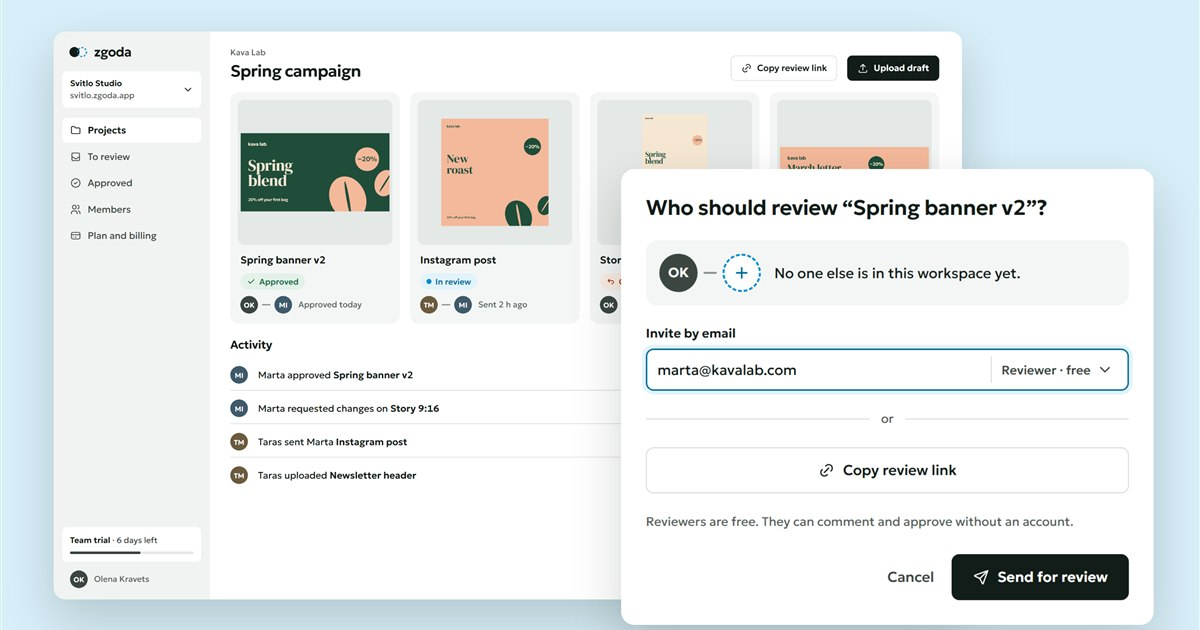
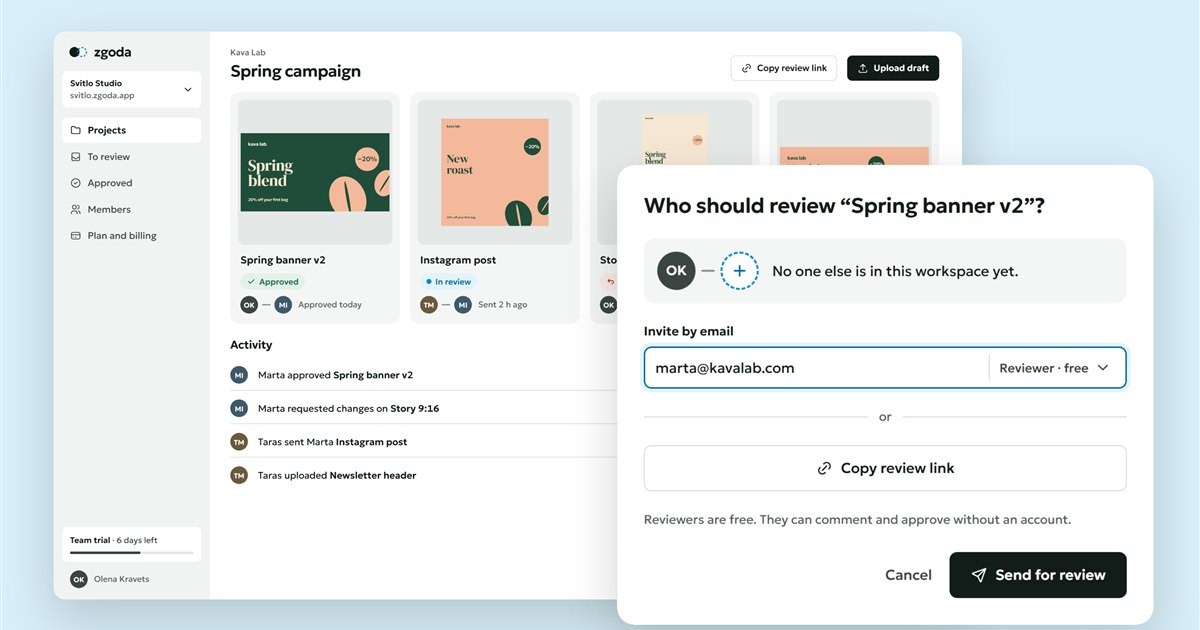
Zgoda: clean dialog corners in the case images, keep numbers with their words
The cropped invite dialog (image 08 and the hero inset) had dimmed
scrim showing in its corners: the frame's radius didn't match the
dialog's. The crop now uses the dialog's measured bounds and radius.
Numbers and the words they count are joined with a no-break space.

diff --git a/zgoda-team-onboarding-billing.html b/zgoda-team-onboarding-billing.html
@@ -43,37 +43,37 @@
     <h1>Zgoda — a team’s first two weeks, from sign-up to a second person</h1>
     <dl class="case-facts"><div><dt>Role</dt><dd>UI/UX &amp; Product Designer</dd></div><div><dt>Platform</dt><dd>Web, desktop</dd></div><div><dt>Domain</dt><dd class="seplist"><span class="seplist__items"><span>SaaS</span><span>Collaboration</span></span></dd></div><div><dt>Team</dt><dd>Solo concept</dd></div></dl>
     <div class="media case-hero__media"><figure class="fig"><img src="img/zgoda-team-onboarding-billing/01-hero.webp" alt="Zgoda project Spring campaign with four drafts, each showing who made it and who decides, and on top the invite dialog: “Who should review Spring banner v2?”, an empty dashed seat, an email field with the role Reviewer, free, and a Copy review link button" width="2048" height="1182" loading="eager" decoding="async"><figcaption>The empty seat is the invite</figcaption></figure></div>
-    <dl class="case-summary" aria-label="Case at a glance"><div><dt>Problem</dt><dd>In week one, only 17.3% of trial teams had a second person review a draft; 6.5% paid. Clients silently counted as paid seats.</dd></div><div><dt>What I did</dt><dd>Defined activation, studied 9,000&nbsp;trials, 1,030&nbsp;tickets and 16&nbsp;trialists, then redesigned setup, invites, roles and billing, and shipped it against a holdout.</dd></div><div><dt>Result</dt><dd>Activation rose from 17.3% to 21.1%. Payment rose to 7.3%, not yet proven. An invite step in setup failed, and role tickets went up.</dd></div></dl>
+    <dl class="case-summary" aria-label="Case at a glance"><div><dt>Problem</dt><dd>In week one, only 17.3% of trial teams had a second person review a draft; 6.5%&nbsp;paid. Clients silently counted as paid seats.</dd></div><div><dt>What I did</dt><dd>Defined activation, studied 9,000&nbsp;trials, 1,030&nbsp;tickets and 16&nbsp;trialists, then redesigned setup, invites, roles and billing, and shipped it against a holdout.</dd></div><div><dt>Result</dt><dd>Activation rose from 17.3% to 21.1%. Payment rose to 7.3%, not yet proven. An invite step in setup failed, and role tickets went up.</dd></div></dl>
   </header>
   <div class="prose wrap">
 <p class="reveal">Zgoda is a creative review tool for marketing teams and agencies: one person uploads a draft, another approves it or asks for changes. I redesigned a team’s first two weeks, from sign-up to the decision to pay.</p>
 <p class="reveal"><em>Concept. Product, users and data are fictional. Every interval in the case is computed by a script.</em></p>
 <h2 class="reveal">Context</h2>
-<p class="reveal">Teams of 2 to 30&nbsp;people try Zgoda for 14&nbsp;days on the Team plan, without a card. About 3,000&nbsp;trials start a month. After the trial a team pays €9 per member a month or stays on Free: 2&nbsp;members, 3 active projects.</p>
-<p class="reveal">The old trial asked 7 setup questions, then showed an empty page. Clients who only approved drafts took paid seats. On day 15 the whole workspace locked behind a modal with the yearly plan picked.</p>
+<p class="reveal">Teams of 2 to 30&nbsp;people try Zgoda for 14&nbsp;days on the Team plan, without a card. About 3,000&nbsp;trials start a month. After the trial a team pays €9&nbsp;per member a month or stays on Free: 2&nbsp;members, 3&nbsp;active projects.</p>
+<p class="reveal">The old trial asked 7&nbsp;setup questions, then showed an empty page. Clients who only approved drafts took paid seats. On day 15 the whole workspace locked behind a modal with the yearly plan picked.</p>
 <p class="reveal">This is a solo concept, written the way it would run in a team: a growth PM, an analyst, two engineers and me. I ran the research, the design and the rollout plan. Six weeks of design, then a nine-week rollout.</p>
 <div class="media reveal"><figure class="fig"><img src="img/zgoda-team-onboarding-billing/02-before.webp" alt="The old trial on day 15: the workspace dimmed behind a modal “Your trial has expired!” with the yearly plan picked, 7 seats × €9 billed €756 today, and Free plan limits in red, seats 7 of 2 and projects 4 of 3" width="2048" height="1316" loading="lazy" decoding="async"><figcaption>Before: day 15, the workspace locked, the yearly plan picked</figcaption></figure></div>
 <h2 class="reveal">Constraints</h2>
-<ul class="reveal"><li><strong>No card at sign-up.</strong> Nothing can be charged without asking.</li><li><strong>€9 per member stays.</strong> Only who counts as a member can change.</li><li><strong>Sales want company data</strong> for lead scoring.</li><li><strong>About 3,000&nbsp;trials a month.</strong> Payment shows after 30&nbsp;days.</li><li><strong>Billing fixes go to everyone.</strong> None is held back to keep a test clean.</li></ul>
+<ul class="reveal"><li><strong>No card at sign-up.</strong> Nothing can be charged without asking.</li><li><strong>€9&nbsp;per member stays.</strong> Only who counts as a member can change.</li><li><strong>Sales want company data</strong> for lead scoring.</li><li><strong>About 3,000&nbsp;trials a month.</strong> Payment shows after 30&nbsp;days.</li><li><strong>Billing fixes go to everyone.</strong> None is held back to keep a test clean.</li></ul>
 <h2 class="reveal">Process</h2>
 <p class="reveal"><strong>First, what “value” means.</strong> Zgoda is worth paying for once someone else looks at your work. So activation is a draft from one person getting a decision from another within 7&nbsp;days. A guest reviewer counts. In Q2, 31.7% of activated teams paid, against 1.2% of the rest. The other candidates predicted payment far worse: “invite sent” (14.3%) and “first upload” (13.2%).</p>
 <p class="reveal"><strong>Where teams stop.</strong> A step-by-step cohort analysis of 9,000 Q2&nbsp;trials, at the workspace level. Only half the teams that uploaded a draft brought in anyone else.</p>
 <div class="media reveal"><figure class="fig"><img src="img/zgoda-team-onboarding-billing/03-funnel.webp" alt="Bar chart of the Q2 trial funnel, 9,000 workspaces: wizard finished 65%, first draft uploaded 47%, 2+ people by day 7 23%, activated 17.3%, paid by day 30 6.5%; only 49% of uploading teams bring in a second person" width="2048" height="924" loading="lazy" decoding="async"><figcaption>Half of uploading teams never bring in anyone</figcaption></figure></div>
-<p class="reveal"><strong>Why they stop.</strong> 1,030 support tickets from the first 14&nbsp;days, coded by theme and trial day. The top theme came on days 1–3: “How does my client approve without an account?” Billing peaked on days 12–15. Then 16&nbsp;interviews: 12&nbsp;trialists who didn’t pay and 4 who did.</p>
+<p class="reveal"><strong>Why they stop.</strong> 1,030&nbsp;support tickets from the first 14&nbsp;days, coded by theme and trial day. The top theme came on days 1–3: “How does my client approve without an account?” Billing peaked on days 12–15. Then 16&nbsp;interviews: 12&nbsp;trialists who didn’t pay and 4&nbsp;who did.</p>
 <blockquote class="reveal"><p>“I invited my two designers right away. They opened it, saw nothing, and went back to Slack.”</p><cite>Head of marketing, didn’t pay</cite></blockquote>
 <blockquote class="reveal"><p>“The pricing says per user. My client is a user, right?”</p><cite>Agency owner, didn’t pay</cite></blockquote>
-<p class="reveal">11&nbsp;of&nbsp;16 didn’t know what to do after setup. 7&nbsp;of&nbsp;12 non-payers held back from inviting a client over price.</p>
-<p class="reveal"><strong>What I tested before building.</strong> A moderated concept test with 10&nbsp;team leads. With a sample project after setup, 9&nbsp;of&nbsp;10 found the next step, against 4&nbsp;of&nbsp;10. Asked what 3 designers and 2 clients would cost, 9&nbsp;of&nbsp;10 answered right on the new plan page, against 3&nbsp;of&nbsp;10. An “Invite your team” step in setup was called convenient by 8&nbsp;of&nbsp;10.</p>
+<p class="reveal">11&nbsp;of&nbsp;16&nbsp;didn’t know what to do after setup. 7&nbsp;of&nbsp;12&nbsp;non-payers held back from inviting a client over price.</p>
+<p class="reveal"><strong>What I tested before building.</strong> A moderated concept test with 10&nbsp;team leads. With a sample project after setup, 9&nbsp;of&nbsp;10&nbsp;found the next step, against 4&nbsp;of&nbsp;10. Asked what 3&nbsp;designers and 2&nbsp;clients would cost, 9&nbsp;of&nbsp;10&nbsp;answered right on the new plan page, against 3&nbsp;of&nbsp;10. An “Invite your team” step in setup was called convenient by 8&nbsp;of&nbsp;10.</p>
 <p class="reveal">I ranked six hypotheses by ICE. That invite step came first: cheap, standard in SaaS, and sales asked for it.</p>
 <h2 class="reveal">Key decisions</h2>
 <h3 class="reveal">What does setup ask, and what waits?</h3>
-<p class="reveal">Options: keep 7 steps and let people skip; no questions at all; three questions, then a sample project. I chose three: each answer changes the next screen. What you review picks the sample draft. Team size shows a bulk invite only for 15 or more. The cost: sales lose industry at sign-up and ask for it later.</p>
+<p class="reveal">Options: keep 7&nbsp;steps and let people skip; no questions at all; three questions, then a sample project. I chose three: each answer changes the next screen. What you review picks the sample draft. Team size shows a bulk invite only for 15 or more. The cost: sales lose industry at sign-up and ask for it later.</p>
 <div class="media reveal"><figure class="fig"><img src="img/zgoda-team-onboarding-billing/04-options-setup.webp" alt="Three wireframes for setup: seven skippable steps, no questions and an empty workspace, and three questions followed by a sample project, which is chosen" width="2048" height="910" loading="lazy" decoding="async"><figcaption>Three ways to set up. I picked C</figcaption></figure></div>
 <h3 class="reveal">When do we ask for the team?</h3>
 <p class="reveal">Options: a step in setup; a button in the sidebar only; at “Send for review”, when a draft needs someone. Setup came first by ICE, so I tested it first, and it failed (see Result). The final answer is the third: the invite carries the draft. The cost: large teams lose the upfront invite, so “15 or more” keeps it in setup.</p>
 <div class="media reveal"><figure class="fig"><img src="img/zgoda-team-onboarding-billing/05-options-invite.webp" alt="Three wireframes for inviting the team: a step at the end of setup, tested first, a button in the sidebar only, and an invite at Send for review, which is chosen" width="2048" height="910" loading="lazy" decoding="async"><figcaption>Three moments to invite. Setup was tested first</figcaption></figure></div>
 <h3 class="reveal">How do we show the price without scaring people?</h3>
-<p class="reveal">Options: usage meters that turn red at 80%; nothing until the limit; the price at the moment it changes. I chose the third. Reviewers are free, and adding a member says “adds €9 a month after your trial”. The cost: fewer seats per paying team, 6.1 down to 5.2, and revenue per team from €55 to €47.</p>
+<p class="reveal">Options: usage meters that turn red at 80%; nothing until the limit; the price at the moment it changes. I chose the third. Reviewers are free, and adding a member says “adds €9&nbsp;a month after your trial”. The cost: fewer seats per paying team, 6.1 down to 5.2, and revenue per team from €55 to €47.</p>
 <div class="media reveal"><figure class="fig"><img src="img/zgoda-team-onboarding-billing/06-options-plan.webp" alt="Three wireframes for plan and limits: usage meters that turn red, nothing until a limit wall, and the price shown at the moment it changes, which is chosen" width="2048" height="910" loading="lazy" decoding="async"><figcaption>Three ways to show plan and limits</figcaption></figure></div>
 <h2 class="reveal">Setup that ends in a real review</h2>
 <p class="reveal">Three questions, then a sample project with a draft to comment on and approve. In the sample you review your own draft, and the panel says why: in your projects someone else approves. The next step is uploading your own draft.</p>
@@ -81,7 +81,7 @@
 <h2 class="reveal">The empty seat is the invite</h2>
 <p class="reveal">Every draft shows two seats: who made it and who decides. Until someone is invited, the second seat is a dashed circle. That pair is the product’s one memorable element. The name comes from “згода”, Ukrainian for “agreement”.</p>
 <p class="reveal">“Send for review” with nobody to send to doesn’t fail. It asks who should review, invites by email or a link, and makes the reviewer free by default.</p>
-<div class="media reveal"><figure class="fig"><img src="img/zgoda-team-onboarding-billing/08-send.webp" alt="The invite dialog: Olena’s avatar next to an empty dashed seat, “No one else is in this workspace yet”, an email field set to Reviewer, free, a Copy review link button and Send for review" width="2048" height="1297" loading="lazy" decoding="async"><figcaption>Send for review when no one else is here</figcaption></figure></div>
+<div class="media reveal"><figure class="fig"><img src="img/zgoda-team-onboarding-billing/08-send.webp" alt="The invite dialog: Olena’s avatar next to an empty dashed seat, “No one else is in this workspace yet”, an email field set to Reviewer, free, a Copy review link button and Send for review" width="2048" height="1306" loading="lazy" decoding="async"><figcaption>Send for review when no one else is here</figcaption></figure></div>
 <p class="reveal">The reviewer gets a task, not “join my workspace”: the draft, Olena’s two comments and one button. No account needed.</p>
 <div class="media reveal"><figure class="fig"><img src="img/zgoda-team-onboarding-billing/09-invite-review.webp" alt="The invite email “Olena from Svitlo Studio asked you to review a draft” with the banner and an Open draft button, next to the guest reviewer’s panel with two comments, Approve and Request changes, and no account needed" width="2048" height="1124" loading="lazy" decoding="async"><figcaption>The invite and the review, with no account</figcaption></figure></div>
 <p class="reveal">Once a second person is in, every card shows the pair, and the activity shows the loop working.</p>
@@ -90,19 +90,19 @@
 <p class="reveal">Owner, Admin, Member and Reviewer, each with what it can do and its price on one page. The header adds up the bill. If a member only comments, the page suggests making them a reviewer, which is free.</p>
 <div class="media reveal"><figure class="fig"><img src="img/zgoda-team-onboarding-billing/11-members.webp" alt="Members page: four members at €9 a month and two free reviewers, a hint that Dmytro only comments and would be free as a reviewer, and a matrix of what Owner, Admin, Member and Reviewer can do" width="2048" height="1378" loading="lazy" decoding="async"><figcaption>What each role can do, and what it costs</figcaption></figure></div>
 <h2 class="reveal">A trial that ends without a trap</h2>
-<p class="reveal">The plan page names the date, what happens if you do nothing, and the bill for this team. Day 11 brings a reminder email. After 14&nbsp;days the team moves to Free: extra projects become read-only, nothing is deleted. Monthly is picked by default; yearly shows its saving in euros.</p>
+<p class="reveal">The plan page names the date, what happens if you do nothing, and the bill for this team. Day 11&nbsp;brings a reminder email. After 14&nbsp;days the team moves to Free: extra projects become read-only, nothing is deleted. Monthly is picked by default; yearly shows its saving in euros.</p>
 <div class="media reveal"><figure class="fig"><img src="img/zgoda-team-onboarding-billing/12-plan.webp" alt="Plan and billing during the trial: 9 days left, a timeline from 30 Oct to the reminder on 9 Nov and Free on 13 Nov, monthly picked, and plan cards with this team’s bill, €36 a month on Team" width="2048" height="1317" loading="lazy" decoding="async"><figcaption>The date, the default, and this team’s bill</figcaption></figure></div>
 <h2 class="reveal">States and edge cases</h2>
 <p class="reveal">Each empty state says what will appear there and offers the first action. The Free limit offers archiving before upgrading. A reviewer who tries to upload is told why and can ask to become a member.</p>
 <div class="media reveal"><figure class="fig"><img src="img/zgoda-team-onboarding-billing/13-states.webp" alt="States sheet: empty projects, nothing to review, no approved drafts, the Free limit of 3 projects, a reviewer who can’t upload, and an expired review link, each with a next step" width="2048" height="1316" loading="lazy" decoding="async"><figcaption>Empty states and dead ends, each with a next step</figcaption></figure></div>
 <h2 class="reveal">Result</h2>
 <p class="reveal">We shipped in stages against a holdout: 15% of new trials kept the old experience the whole time. A user-level A/B test would mix people inside one team, and payment needs 30&nbsp;days. Billing fixes went to everyone at once.</p>
-<p class="reveal"><strong>The hypothesis that failed.</strong> In stage 1, setup ended with “Invite your team”. 71% skipped it. Of the invites sent, 34% were accepted, and only 22% of those people did anything in their first week. They arrived in an empty workspace. Activation barely moved: 17.3% to 17.9% (−3.9 to +5.1&nbsp;points). The invite was right, the moment was wrong.</p>
+<p class="reveal"><strong>The hypothesis that failed.</strong> In stage 1, setup ended with “Invite your team”. 71%&nbsp;skipped it. Of the invites sent, 34%&nbsp;were accepted, and only 22% of those people did anything in their first week. They arrived in an empty workspace. Activation barely moved: 17.3% to 17.9% (−3.9 to +5.1&nbsp;points). The invite was right, the moment was wrong.</p>
 <p class="reveal">In stage 2 the invite moved to “Send for review”. 61% of invites were accepted, and 74% of reviewers decided within 48&nbsp;hours.</p>
 <div class="media reveal"><figure class="fig"><img src="img/zgoda-team-onboarding-billing/14-invite-timing.webp" alt="Bar chart: invites accepted 34% in setup against 61% at Send for review; the invited person acted 22% against 74%" width="2048" height="796" loading="lazy" decoding="async"><figcaption>The same invite, two moments</figcaption></figure></div>
-<p class="reveal">Six weeks of stage 2, 3,570 new trials against 630 in the holdout:</p>
-<ul class="reveal"><li><strong>Activation</strong> rose from 17.3% to 21.1%, +3.8&nbsp;points (+0.6 to +7.0).</li><li><strong>Teams with 2+ people</strong> by day 7 rose from 23% to 29%.</li><li><strong>Payment by day 30</strong> rose from 6.5% to 7.3%, but the range runs from −1.3 to +2.9&nbsp;points. Not proven yet; the holdout stays another quarter.</li><li><strong>Support tickets</strong> in the first 14&nbsp;days fell from 11.4 to 8.6 per 100&nbsp;trials. Refunds after the first charge fell from 4.8% to 2.1%, measured before and after.</li></ul>
-<p class="reveal"><strong>One number went the wrong way.</strong> Role tickets rose from 2.1 to 2.9 per 100&nbsp;trials, +38%. Teams made colleagues reviewers to save €9, then those colleagues couldn’t upload. So a reviewer who tries now sees why and can ask to become a member, with the price shown to the admin.</p>
+<p class="reveal">Six weeks of stage 2, 3,570&nbsp;new trials against 630&nbsp;in the holdout:</p>
+<ul class="reveal"><li><strong>Activation</strong> rose from 17.3% to 21.1%, +3.8&nbsp;points (+0.6 to +7.0).</li><li><strong>Teams with 2+ people</strong> by day 7 rose from 23% to 29%.</li><li><strong>Payment by day 30</strong> rose from 6.5% to 7.3%, but the range runs from −1.3 to +2.9&nbsp;points. Not proven yet; the holdout stays another quarter.</li><li><strong>Support tickets</strong> in the first 14&nbsp;days fell from 11.4 to 8.6&nbsp;per 100&nbsp;trials. Refunds after the first charge fell from 4.8% to 2.1%, measured before and after.</li></ul>
+<p class="reveal"><strong>One number went the wrong way.</strong> Role tickets rose from 2.1 to 2.9&nbsp;per 100&nbsp;trials, +38%. Teams made colleagues reviewers to save €9, then those colleagues couldn’t upload. So a reviewer who tries now sees why and can ask to become a member, with the price shown to the admin.</p>
 <div class="media reveal"><figure class="fig"><img src="img/zgoda-team-onboarding-billing/15-results.webp" alt="Results table against the holdout: activation 17.3% to 21.1%, teams with 2+ people 23% to 29%, paid 6.5% to 7.3% not proven, tickets 11.4 to 8.6 per 100 trials, role tickets 2.1 to 2.9, revenue per paying team €55 to €47" width="2048" height="910" loading="lazy" decoding="async"><figcaption>Activation up, payment not proven, role tickets up</figcaption></figure></div>
 <h2 class="reveal">What I learned</h2>
 <ul class="reveal"><li><strong>Timing beats placement.</strong> The same invite failed in setup and worked when a draft needed a reviewer.</li><li><strong>Activation is a product decision.</strong> Choosing “a second person decided” over “invite sent” changed what we built.</li><li><strong>Honest pricing has a cost to plan for.</strong> Free reviewers cut revenue per team before they raised payment, and they moved the questions to roles.</li></ul>
